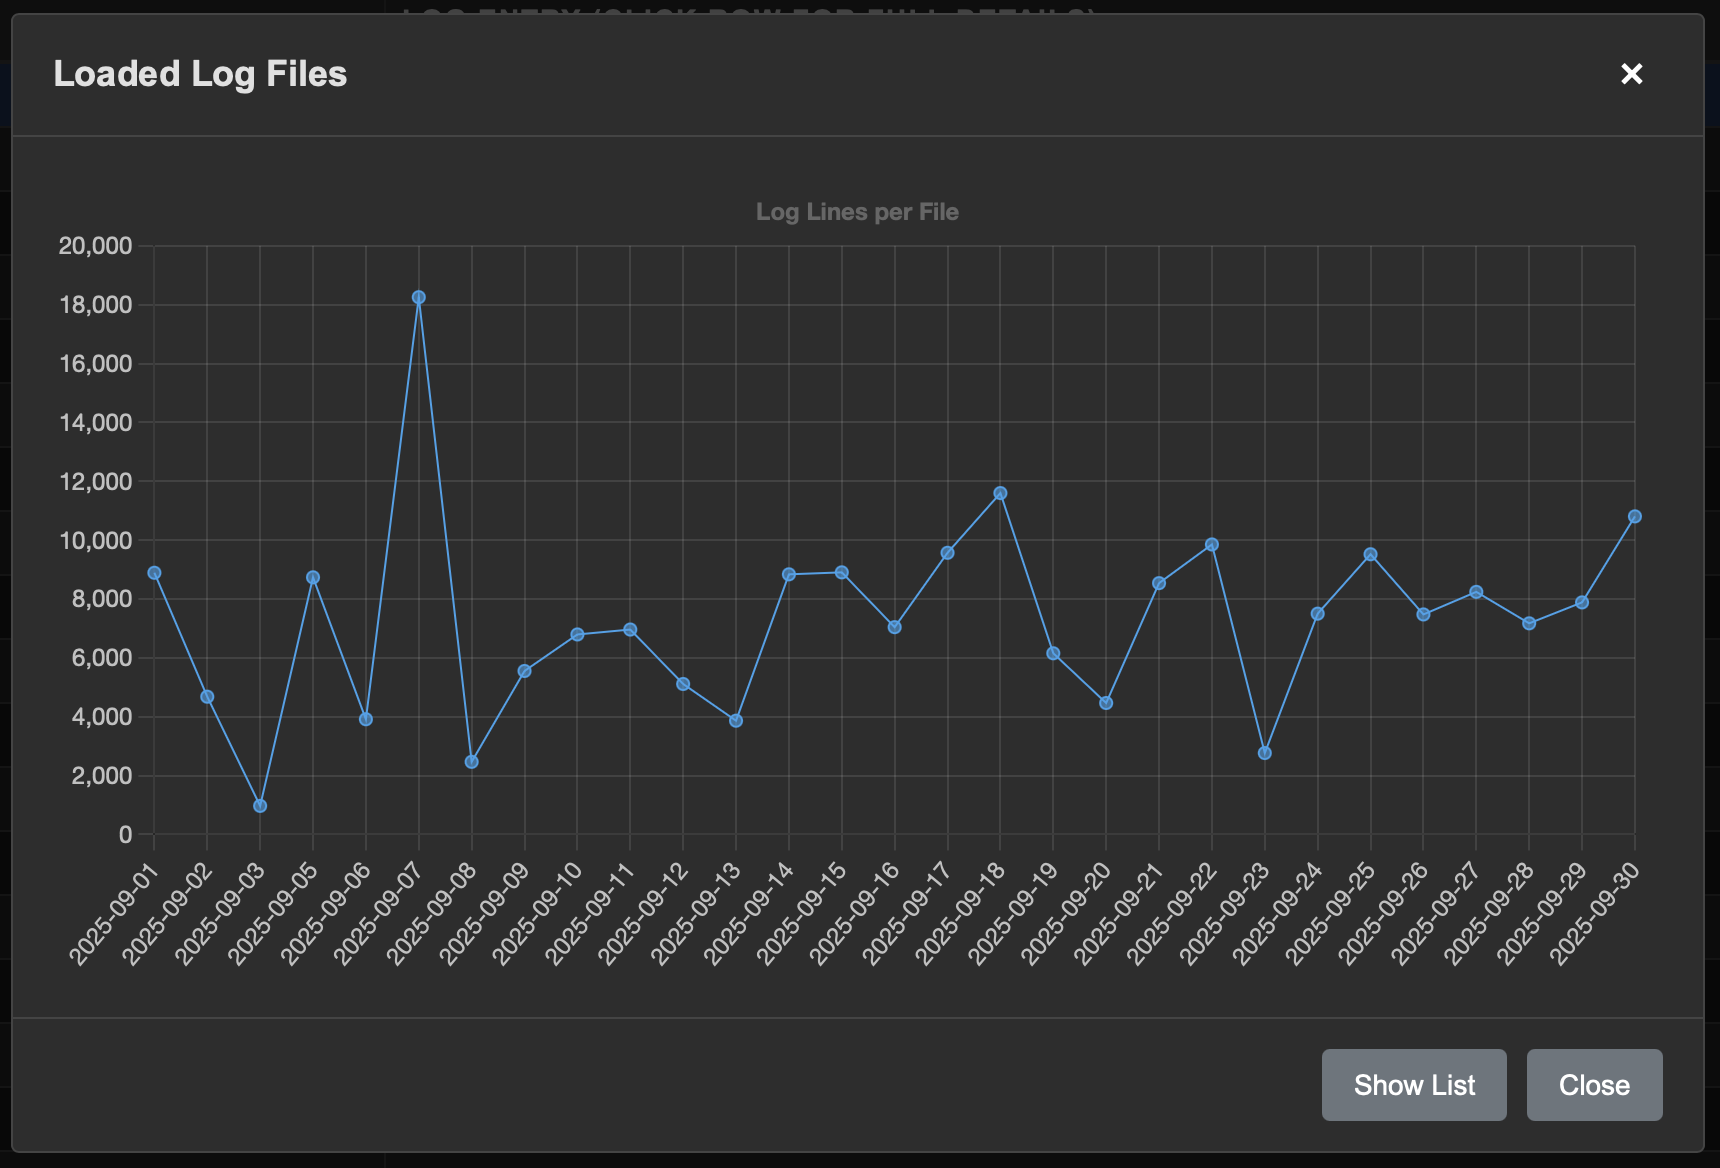
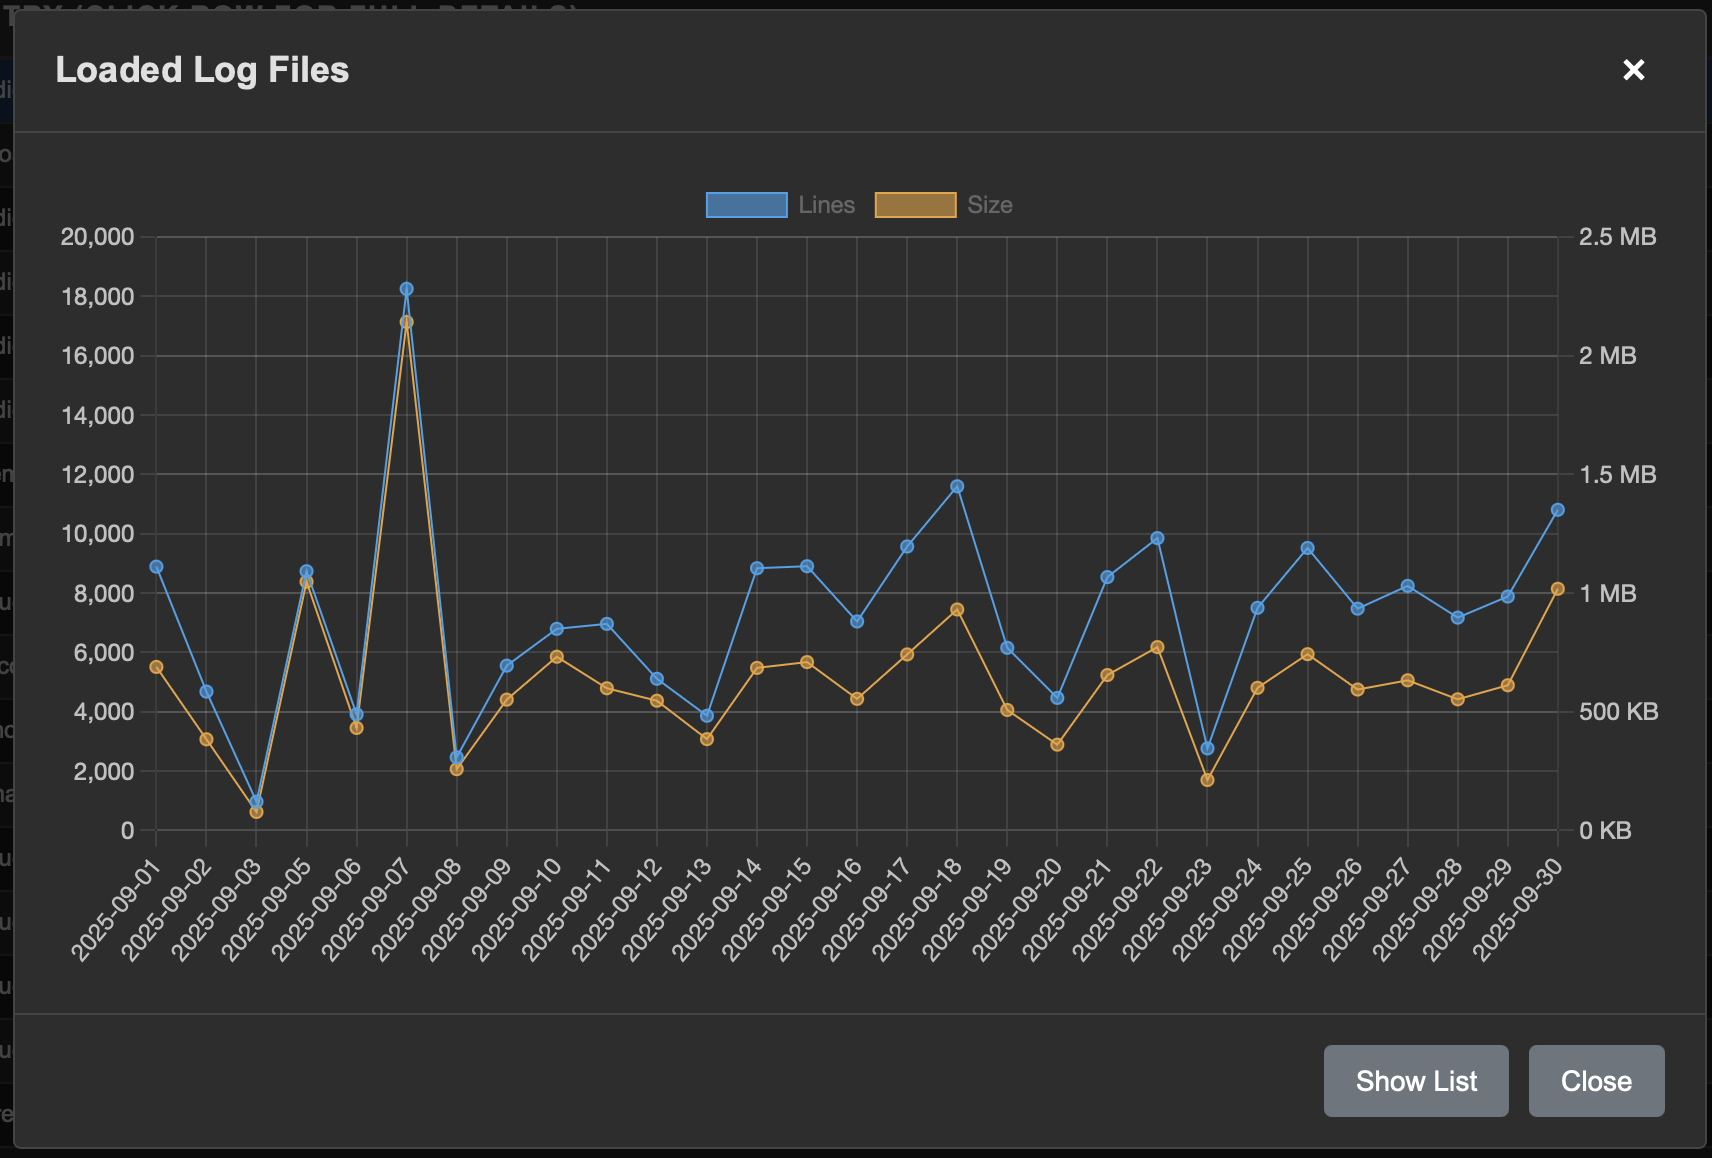
Adds a progress bar for file loading to give a visual indicator that stuff is happening.

diff --git a/js/log_viewer_app.js b/js/log_viewer_app.js
@@ -392,6 +392,7 @@ function selectFolder() {
 	folderInput.click();
 	// Close the hamburger menu after selection
 	document.getElementById('hamburgerDropdown').classList.remove('show');
+	footer.textContent = `Loading log files...`;
 }
 
 //=============================================================================
@@ -406,12 +407,14 @@ function selectFiles() {
 	loadedFileInfo = [];
 	fileInput.click();
 	document.getElementById('hamburgerDropdown').classList.remove('show');
+	footer.textContent = `Loading log files...`;
 }
 
 //=============================================================================
 // Load selected log files
 //=============================================================================
 async function loadLogFiles() {
+
 	const folderInput = document.getElementById('folderInput');
 	const fileInput = document.getElementById('fileInput');
 
@@ -433,6 +436,18 @@ async function loadLogFiles() {
 	availableClasses.clear();
 	clearError();
 
+	// Show progress indicator immediately
+	const progressContainer = document.getElementById('loadingProgress');
+	const progressBar = document.getElementById('progressBar');
+	const progressCounter = document.getElementById('progressCounter');
+
+	progressContainer.style.display = 'block';
+	progressCounter.textContent = 'Filtering files...';
+	progressBar.style.width = '0%';
+
+	// Force a reflow to ensure the progress bar renders immediately
+	progressContainer.offsetHeight;
+
 	try {
 		// Filter files to match the pattern YYY-MM-DD Events.*
 		const logFiles = Array.from(filesToProcess).filter(file => {
@@ -443,9 +458,13 @@ async function loadLogFiles() {
 		});
 
 		if (logFiles.length === 0) {
+			progressContainer.style.display = 'none';
 			showToast('No log files found matching pattern "YYYY-MM-DD Events.*" in selected folder', 'error');
 			return;
 		}
+
+		// Update counter with actual file count
+		progressCounter.textContent = `0/${logFiles.length}`;
 
 		let processedFiles = 0;
 		let skippedFiles = 0;
@@ -496,7 +515,17 @@ async function loadLogFiles() {
 
 				skippedFiles++;
 			}
+
+			// Update progress
+			const filesCompleted = processedFiles + skippedFiles;
+			const progressPercent = (filesCompleted / totalFiles) * 100;
+			progressBar.style.width = `${progressPercent}%`;
+			progressCounter.textContent = `${filesCompleted}/${totalFiles}`;
 		}
+
+		// Hide progress bar
+		progressContainer.style.display = 'none';
+
 		// Log consolidated error report
 		if (fileErrors.size > 0) {
 			console.group('File Processing Errors:');
@@ -552,6 +581,8 @@ async function loadLogFiles() {
 		showToast(successMessage, 'success');
 
 	} catch (error) {
+		// Hide progress bar on error
+		progressContainer.style.display = 'none';
 		const sourceText = inputSource === 'folder' ? 'selected folder' : 'selected files';
 		showToast(`No log files found matching pattern "YYYY-MM-DD Events.*" in ${sourceText}`, 'error');
 	}

diff --git a/css/log_viewer_app.css b/css/log_viewer_app.css
@@ -1069,7 +1069,39 @@ button:disabled {
 }
 
 canvas {
-    min-height: 500px;
+    min-height: 400px;
+}
+
+.loading-progress {
+    background: var(--bg-color);
+    /*border: 1px solid var(--border-color);*/
+    /*border-radius: 8px;*/
+    margin: 10px auto;
+    padding: 15px;
+    position: relative;
+    width: 50%;
+}
+
+.progress-text {
+    color: var(--text-color);
+    font-size: 14px;
+    margin-bottom: 8px;
+}
+
+.progress-bar-container {
+    background: var(--bg-color);
+    border: 1px solid var(--border-color);
+    border-radius: 10px;
+    height: 20px;
+    overflow: hidden;
+    width: 100%;
+}
+
+.progress-bar {
+    background: linear-gradient(90deg, #4CAF50, #45a049);
+    height: 100%;
+    transition: width 0.3s ease;
+    width: 0;
 }
 
 /* Toggle view classes */

diff --git a/log_viewer_app.html b/log_viewer_app.html
@@ -160,6 +160,14 @@
         </div>
     </div>
 
+    <!-- Progress bar -->
+    <div id="loadingProgress" class="loading-progress" style="display: none;">
+      <div class="progress-text">Loading log files... <span id="progressCounter">0/0</span></div>
+      <div class="progress-bar-container">
+        <div id="progressBar" class="progress-bar"></div>
+      </div>
+    </div>
+
     <!-- Footer -->
     <div class="footer" id="footer">No log files loaded</div>
 

diff --git a/readme.md b/readme.md
@@ -1,15 +1,21 @@
 ## Indigo Log Viewer
 
+---
+
 The ***Indigo Log Viewer*** is a simple web-based app that is intended to be a front end viewer of Indigo log files.
+
+<img src="assets/images/Screenshot.png" alt="Screenshot" width="800" height="600">
+
 While it might work for other log files as well, it is expecting log file entries to be of the form 
-`[POSIX Timestamp][Message Class][Message]`. No other log entry format is supported. For example, this is the only 
-format that is supported:
+`[POSIX Timestamp][Message Class][Message]`.
 ```text
 2025-09-10 11:52:01.833	Action Collection	Webhook Post/Form Received
 ```
-<img src="assets/images/Screenshot.png" alt="Screenshot" width="800" height="600">
+ This is the only format that is supported.
 
 ### Usage
+
+---
 > [!NOTE] 
 > The structure of the project has changed from the initial release. While it's still possible to manually copy the
 project files individually, downloading the "official" release is now the best and safest approach.
@@ -19,6 +25,8 @@ download. Unzip the files into a working folder and double-click the html file (
 preferred browser).
 
 ### Menu
+
+---
 Use the hamburger menu in the upper right-hand corner to access app features.
 
 #### Choose Log Folder
@@ -36,6 +44,8 @@ on the server machine.
 size, and the number of entries per file. This is a handy way to see if any of your log files are outside the norm. For 
 example, if your typical log file is typically 700K, a 1MB file will stand out. There are two views for this dialog--list 
 view and chart view. Use the button at the bottom of the dialog to toggle between the two views.
+
+While in chart view, you can hide individual series by clicking on it within the legend.
 
 #### File Info List View
 <img src="assets/images/fileInfoListView.png" alt="File Info List View" width="800" height="600">
@@ -55,6 +65,8 @@ browser security feature. To toggle the theme, select  from the menu.
 <kbd>About</kbd> Typical About information.
 
 ### Search Tools
+
+---
 #### Class Filter
 The Class Filter dropdown will list all the message classes that exist in the loaded log files. This control is built 
 dynamically; that is, when you first load the app, there will be no classes listed in the control. Once the control is
@@ -71,6 +83,8 @@ To limit the log entry list to a specific date or date range, use the Date Filte
 selection, click the <kbd>Clear</kbd> button.
 
 ### Viewing Area
+
+---
 The log messages from the selected files are displayed in this area. Initially, it will contain all loaded messages; 
 however, the list will update as filters are applied. Click on a message and it will open in a modal dialog. This is
 especially helpful for multiline log messages which are truncated in the main view. There is a <kbd>Copy</kbd> button
@@ -86,15 +100,21 @@ Both the timestamp and class columns are sortable in place. You can click on the
 can sort only one column at a time. Additionally, both columns are resizeable if needed.
 
 ### Compatability
+
+---
 - This web app is tested against Safari `18.6`, but it should work in other modern browsers (it loads in current 
   versions of FireFox and Chrome, but is not fully tested in those browsers).
 - This web app is not designed to be run on small screens, but it should theoretically work if your small screen device 
   can access the Indigo logs folder.
 
 ### Getting Creative
+
+---
 You can move the app's files to Indigo's public webserver folder and serve the app from there. This will allow you to 
 add the app to the dock and make it a stand-alone web personal web app (PWA). You can also serve the app from node.js. 
 There are lots of options, but you are on your own for configuring anything beyond the instructions above.
 
 ### Suggestions and Error Reports
+
+---
 Add suggestions and error reports using the issues tab above.
